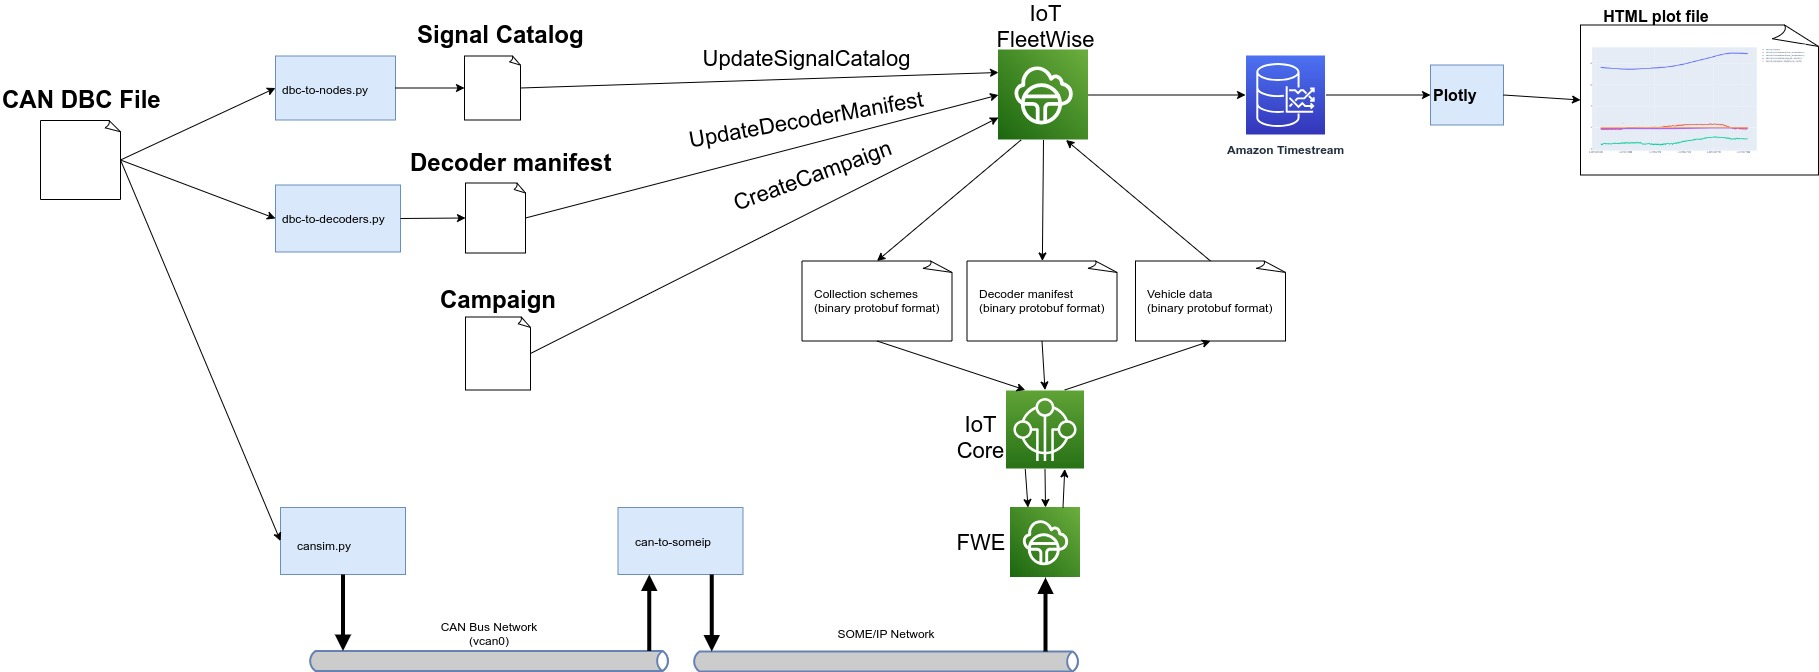
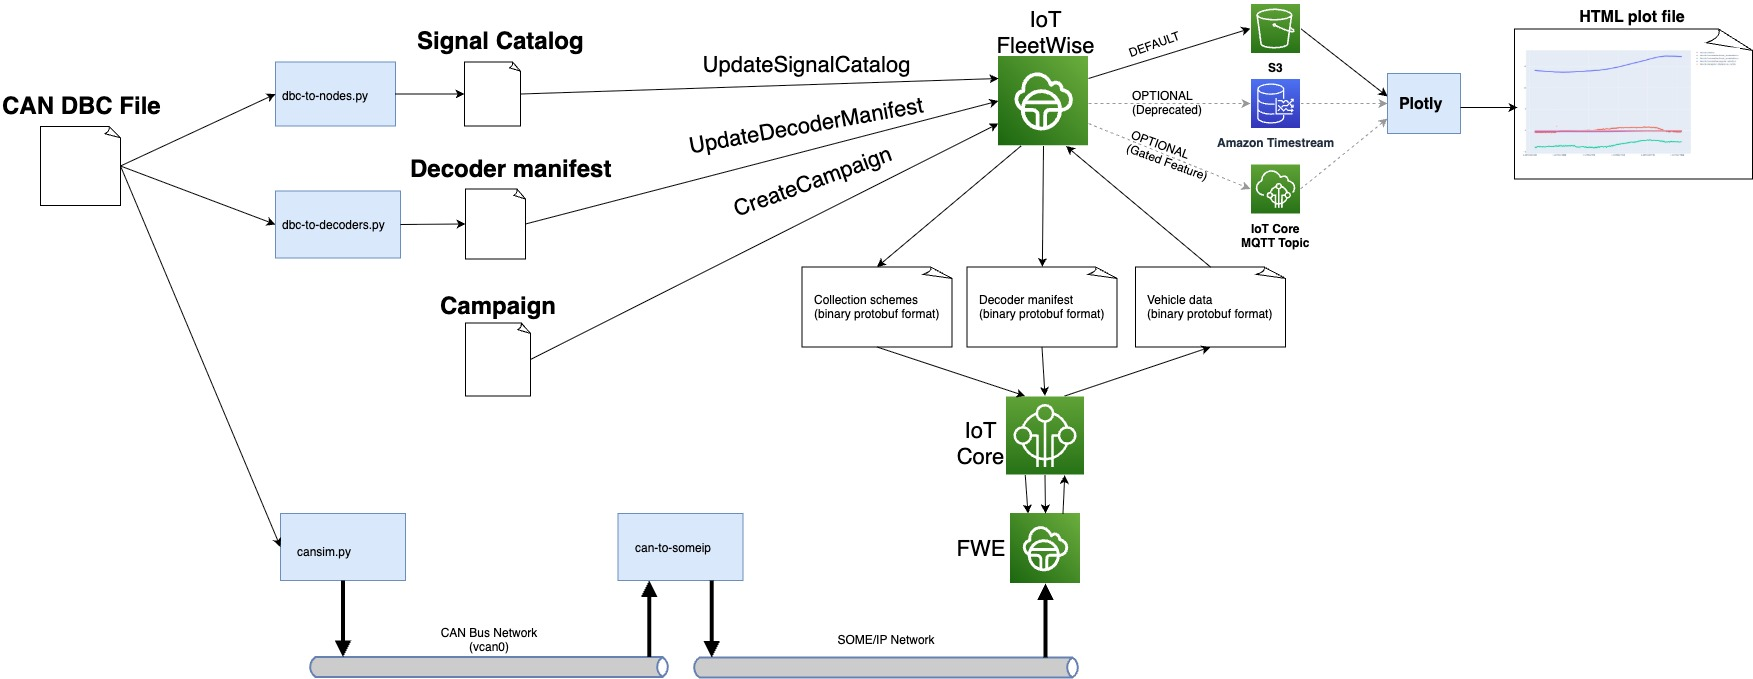
Update default data destination to S3 (#137)

diff --git a/docs/dev-guide/edge-agent-dev-guide.md b/docs/dev-guide/edge-agent-dev-guide.md
@@ -168,9 +168,12 @@ collect data from it.
       --campaign-file campaign-brake-event.json
    ```
 
-   - (Optional) To enable S3 upload, append the option `--data-destination S3`. By default the
-     upload format will be JSON. You can change this to Parquet format for S3 by passing
-     `--s3-format PARQUET`.
+   - The default `--data-destination` is S3, and the default upload format is JSON. You can change
+     this to Parquet format for S3 by passing `--s3-format PARQUET`.
+   - (Optional) To enable Amazon Timestream as destination, add the flag
+     `--data-destination TIMESTREAM`. **Note**: Amazon Timestream for Live Analytics is only
+     available to customers who are already onboarded in that region. See
+     [the availability change documentation](https://docs.aws.amazon.com/timestream/latest/developerguide/AmazonTimestreamForLiveAnalytics-availability-change.html).
    - (Optional) To enable IoT topic as destination, add the flag `--data-destination IOT_TOPIC`. To
      define the custom IoT topic use the flag `--iot-topic <TOPIC_NAME>`. Note: The IoT topic data
      destination is a "gated" feature of AWS IoT FleetWise for which you will need to request
@@ -188,8 +191,8 @@ collect data from it.
    The demo script:
 
    1. Registers your AWS account with AWS IoT FleetWise, if not already registered.
-   1. Creates an Amazon Timestream database and table.
-   1. Creates IAM role and policy required for the service to write data to Amazon Timestream.
+   1. Creates an S3 bucket with a bucket policy that allows AWS IoT FleetWise to write data to the
+      bucket.
    1. Creates a signal catalog based on `can-nodes.json`.
    1. Creates a model manifest that references the signal catalog with all of the CAN signals.
    1. Activates the model manifest.
@@ -203,19 +206,25 @@ collect data from it.
    1. Creates a campaign from `campaign-brake-event.json` that contains a condition-based collection
       scheme to capture the engine torque and the brake pressure when the brake pressure is above
       7000, and targets the campaign at the fleet.
+   1. The data uploaded to S3 would be in JSON format, or Parquet format if the
+      `--s3-format PARQUET` option is passed.
    1. Approves the campaign.
    1. Waits until the campaign status is `HEALTHY`, which means the campaign has been deployed to
       the fleet.
-   1. Waits 30 seconds and then downloads the collected data from Amazon Timestream.
+   1. Wait 20 minutes for the data to propagate to S3 and then download it.
    1. Saves the data to an HTML file.
 
-   If S3 upload is enabled, the demo script will instead:
+   If `TIMESTREAM` upload is enabled (**Note**: Amazon Timestream for Live Analytics is only
+   available to customers who have already been onboarded in that region. See
+   [the availability change documentation](https://docs.aws.amazon.com/timestream/latest/developerguide/AmazonTimestreamForLiveAnalytics-availability-change.html)),
+   the demo script will instead:
 
-   1. Create an S3 bucket with a bucket policy that allows AWS IoT FleetWise to write data to the
-      bucket.
-   1. Creates a campaign from `campaign-brake-event.json` to upload the data to S3 in JSON format,
-      or Parquet format if the `--s3-format PARQUET` option is passed.
-   1. Wait 20 minutes for the data to propagate to S3 and then download it.
+   1. Creates an Amazon Timestream database and table.
+   1. Creates IAM role and policy required for the service to write data to Amazon Timestream.
+   1. Creates a campaign from `campaign-brake-event.json` that contains a condition-based collection
+      scheme to capture the engine torque and the brake pressure when the brake pressure is above
+      7000, and targets the campaign at the fleet.
+   1. Waits 30 seconds and then downloads the collected data from Amazon Timestream.
    1. Save the data to an HTML file.
 
    This script will not delete Amazon Timestream or S3 resources.
@@ -229,8 +238,11 @@ collect data from it.
    simulated brake pressure signal. As you can see that when hard braking events occur (value above
    7000), collection is triggered and the engine torque signal data is collected.
 
-   Alternatively, if your AWS account is enrolled with Amazon QuickSight or Amazon Managed Grafana,
-   you may use them to browse the data from Amazon Timestream directly.
+   Alternatively, if your upload destination was set to `TIMESTREAM` and AWS account is enrolled
+   with Amazon QuickSight or Amazon Managed Grafana, you may use them to browse the data from Amazon
+   Timestream directly. **Note**: Amazon Timestream for Live Analytics is only available to
+   customers who have already been onboarded in that region. See
+   [the availability change documentation](https://docs.aws.amazon.com/timestream/latest/developerguide/AmazonTimestreamForLiveAnalytics-availability-change.html).
 
    ![](./images/collected_data_plot.png)
 
@@ -452,9 +464,12 @@ collect data from it.
       --campaign-file campaign-brake-event.json
    ```
 
-   - (Optional) To enable S3 upload, append the option `--data-destination S3`. By default the
-     upload format will be JSON. You can change this to Parquet format by passing
-     `--s3-format PARQUET`.
+   - The default `--data-destination` is S3, and the default upload format is JSON. You can change
+     this to Parquet format for S3 by passing `--s3-format PARQUET`.
+   - (Optional) To enable Amazon Timestream as destination, add the flag
+     `--data-destination TIMESTREAM`. **Note**: Amazon Timestream for Live Analytics is only
+     available to customers who are already onboarded in that region. See
+     [the availability change documentation](https://docs.aws.amazon.com/timestream/latest/developerguide/AmazonTimestreamForLiveAnalytics-availability-change.html).
    - (Optional) To enable IoT topic as destination, add the flag `--data-destination IOT_TOPIC` To
      define the custom IoT topic use the flag `--iot-topic <TOPIC_NAME>`. Note: The IoT topic data
      destination is a "gated" feature of AWS IoT FleetWise for which you will need to request
@@ -468,8 +483,8 @@ collect data from it.
    The demo script:
 
    1. Registers your AWS account with AWS IoT FleetWise, if not already registered.
-   1. Creates an Amazon Timestream database and table.
-   1. Creates IAM role and policy required for the service to write data to Amazon Timestream.
+   1. Creates an S3 bucket with a bucket policy that allows AWS IoT FleetWise to write data to the
+      bucket.
    1. Creates a signal catalog based on `can-nodes.json`.
    1. Creates a model manifest that references the signal catalog with all of the CAN signals.
    1. Activates the model manifest.
@@ -483,22 +498,27 @@ collect data from it.
    1. Creates a campaign from `campaign-brake-event.json` that contains a condition-based collection
       scheme to capture the engine torque and the brake pressure when the brake pressure is above
       7000, and targets the campaign at the fleet.
+   1. The data uploaded to S3 would be in JSON format, or Parquet format if the
+      `--s3-format PARQUET` option is passed.
    1. Approves the campaign.
    1. Waits until the campaign status is `HEALTHY`, which means the campaign has been deployed to
       the fleet.
-   1. Waits 30 seconds and then downloads the collected data from Amazon Timestream.
+   1. Wait 20 minutes for the data to propagate to S3 and then download it.
    1. Saves the data to an HTML file.
 
-   If S3 upload is enabled, the demo script will additionally:
+   If `TIMESTREAM` upload is enabled, the demo script will instead:
 
-   1. Create an S3 bucket with a bucket policy that allows AWS IoT FleetWise to write data to the
-      bucket.
-   1. Creates an additional campaign from `campaign-brake-event.json` to upload the data to S3 in
-      JSON format, or Parquet format if the `--s3-format PARQUET` option is passed.
-   1. Wait 20 minutes for the data to propagate to S3 and then download it.
-   1. Save the data to an HTML file.
+   **Note**: Amazon Timestream for Live Analytics is only available to customers who have already
+   been onboarded in that region. See
+   [the availability change documentation](https://docs.aws.amazon.com/timestream/latest/developerguide/AmazonTimestreamForLiveAnalytics-availability-change.html).
 
-   This script will not delete Amazon Timestream or S3 resources.
+   1. Creates an Amazon Timestream database and table.
+   1. Creates IAM role and policy required for the service to write data to Amazon Timestream.
+   1. Creates a campaign from `campaign-brake-event.json` that contains a condition-based collection
+      scheme to capture the engine torque and the brake pressure when the brake pressure is above
+      7000, and targets the campaign at the fleet.
+   1. Waits 30 seconds and then downloads the collected data from Amazon Timestream.
+   1. Save the data to an HTML file. This script will not delete Amazon Timestream or S3 resources.
 
 1. When the script completes, a path to an HTML file is given. _On your local machine_, use `scp` to
    download it, then open it in your web browser:
@@ -511,8 +531,11 @@ collect data from it.
    simulated brake pressure signal. As you can see that when hard braking events occur (value above
    7000), collection is triggered and the engine torque signal data is collected.
 
-   Alternatively, if your AWS account is enrolled with Amazon QuickSight or Amazon Managed Grafana,
-   you may use them to browse the data from Amazon Timestream directly.
+   Alternatively, if your upload destination was set to `TIMESTREAM` and AWS account is enrolled
+   with Amazon QuickSight or Amazon Managed Grafana, you may use them to browse the data from Amazon
+   Timestream directly. **Note**: Amazon Timestream for Live Analytics is only available to
+   customers who have already been onboarded in that region. See
+   [the availability change documentation](https://docs.aws.amazon.com/timestream/latest/developerguide/AmazonTimestreamForLiveAnalytics-availability-change.html).
 
    ![](./images/collected_data_plot.png)
 

diff --git a/docs/dev-guide/can-over-someip-demo.md b/docs/dev-guide/can-over-someip-demo.md
@@ -7,8 +7,8 @@ available to nodes on the Ethernet network.
 
 This demo generates CAN data on a virtual CAN bus, and bridges this data onto SOME/IP. The Reference
 Implementation for AWS IoT FleetWise (FWE) is then provisioned and run to collect the CAN data from
-SOME/IP and upload it to the cloud. The data is then downloaded from Amazon Timestream and plotted
-in an HTML graph format.
+SOME/IP and upload it to the cloud. The data is then downloaded from the specified data destination
+and plotted in an HTML graph format.
 
 The following diagram illustrates the dataflow and artifacts consumed and produced by this demo:
 
@@ -227,8 +227,8 @@ collect data from it.
    The demo script:
 
    1. Registers your AWS account with AWS IoT FleetWise, if not already registered.
-   1. Creates an Amazon Timestream database and table.
-   1. Creates IAM role and policy required for the service to write data to Amazon Timestream.
+   1. Creates an S3 bucket with a bucket policy that allows AWS IoT FleetWise to write data to the
+      bucket.
    1. Creates a signal catalog based on `can-nodes.json`.
    1. Creates a model manifest that references the signal catalog with all of the CAN signals.
    1. Activates the model manifest.
@@ -242,11 +242,28 @@ collect data from it.
    1. Creates a campaign from `campaign-brake-event.json` that contains a condition-based collection
       scheme to capture the engine torque and the brake pressure when the brake pressure is above
       7000, and targets the campaign at the fleet.
+   1. The data uploaded to S3 would be in JSON format, or Parquet format if the
+      `--s3-format PARQUET` option is passed.
    1. Approves the campaign.
    1. Waits until the campaign status is `HEALTHY`, which means the campaign has been deployed to
       the fleet.
-   1. Waits 30 seconds and then downloads the collected data from Amazon Timestream.
+   1. Wait 20 minutes for the data to propagate to S3 and then download it.
    1. Saves the data to an HTML file.
+
+   If `TIMESTREAM` upload is enabled (**Note**: Amazon Timestream for Live Analytics is only
+   available to customers who have already been onboarded in that region. See
+   [the availability change documentation](https://docs.aws.amazon.com/timestream/latest/developerguide/AmazonTimestreamForLiveAnalytics-availability-change.html)),
+   the demo script will instead:
+
+   1. Creates an Amazon Timestream database and table.
+   1. Creates IAM role and policy required for the service to write data to Amazon Timestream.
+   1. Creates a campaign from `campaign-brake-event.json` that contains a condition-based collection
+      scheme to capture the engine torque and the brake pressure when the brake pressure is above
+      7000, and targets the campaign at the fleet.
+   1. Waits 30 seconds and then downloads the collected data from Amazon Timestream.
+   1. Save the data to an HTML file.
+
+   This script will not delete Amazon Timestream or S3 resources.
 
 1. When the script completes, a path to an HTML file is given. _On your local machine_, use `scp` to
    download it, then open it in your web browser:
@@ -259,15 +276,18 @@ collect data from it.
    simulated brake pressure signal. As you can see that when hard braking events occur (value above
    7000), collection is triggered and the engine torque signal data is collected.
 
-   Alternatively, if your AWS account is enrolled with Amazon QuickSight or Amazon Managed Grafana,
-   you may use them to browse the data from Amazon Timestream directly.
+   Alternatively, if your upload destination was set to `TIMESTREAM` and AWS account is enrolled
+   with Amazon QuickSight or Amazon Managed Grafana, you may use them to browse the data from Amazon
+   Timestream directly. **Note**: Amazon Timestream for Live Analytics is only available to
+   customers who have already been onboarded in that region. See
+   [the availability change documentation](https://docs.aws.amazon.com/timestream/latest/developerguide/AmazonTimestreamForLiveAnalytics-availability-change.html).
 
    ![](./images/collected_data_plot.png)
 
 ## Clean up
 
 1. Run the following _on the development machine_ to clean up resources created by the
-   `provision.sh` and `demo.sh` scripts. **Note:** The Amazon Timestream resources are not deleted.
+   `provision.sh` and `demo.sh` scripts. **Note:** The S3 resources are not deleted.
 
    ```bash
    cd ~/aws-iot-fleetwise-edge/tools/cloud \

diff --git a/docs/dev-guide/store-and-forward-dev-guide.md b/docs/dev-guide/store-and-forward-dev-guide.md
@@ -116,16 +116,19 @@ previous section.
    The demo script will save a set of varables about the run to a demo.env file, which can be used
    by other scripts such as request-forward.sh or cleanup.sh.
 
-   When the script completes, you can view the data forwarded by the second and third campaigns in
-   Timestream, as well as the demo output file(s). A path to an HTML file is given. _On your local
-   machine_, use `scp` to download it, then open it in your web browser:
+   When the script completes, you can view the data forwarded by the second and third campaigns to
+   S3, as well as the demo output file(s). A path to an HTML file is given. _On your local machine_,
+   use `scp` to download it, then open it in your web browser:
 
    ```bash
    scp -i <PATH_TO_PEM> ubuntu@<EC2_IP_ADDRESS>:<PATH_TO_HTML_FILE> .
    ```
 
-   Alternatively, if your AWS account is enrolled with Amazon QuickSight or Amazon Managed Grafana,
-   you may use them to browse the data from Amazon Timestream directly.
+   Alternatively, if your upload destination was set to `TIMESTREAM` and AWS account is enrolled
+   with Amazon QuickSight or Amazon Managed Grafana, you may use them to browse the data from Amazon
+   Timestream directly. **Note**: Amazon Timestream for Live Analytics is only available to
+   customers who have already been onboarded in that region. See
+   [the availability change documentation](https://docs.aws.amazon.com/timestream/latest/developerguide/AmazonTimestreamForLiveAnalytics-availability-change.html).
 
    As you explore the forwarded data, you can see the brake data from campaign 2 as well as the
    network type signal from campaign 3.
@@ -163,16 +166,18 @@ end time will be passed through to the IoT Job document by the script. The scrip
 argument must be an ISO 8601 UTC formatted time string. e.g. `--end-time 2024-05-25T01:21:23Z`
 
 When the request-forward.sh script completes, you can view the data forwarded by the first campaign
-which was requested through IoT Jobs in Timestream, as well as the demo output file(s). A path to an
-HTML file is given. _On your local machine_, use `scp` to download it, then open it in your web
-browser:
+which was requested through IoT Jobs in S3, as well as the demo output file(s). A path to an HTML
+file is given. _On your local machine_, use `scp` to download it, then open it in your web browser:
 
 ```bash
 scp -i <PATH_TO_PEM> ubuntu@<EC2_IP_ADDRESS>:<PATH_TO_HTML_FILE> .
 ```
 
-Alternatively, if your AWS account is enrolled with Amazon QuickSight or Amazon Managed Grafana, you
-may use them to browse the data from Amazon Timestream directly.
+Alternatively, if your upload destination was set to `TIMESTREAM` and AWS account is enrolled with
+Amazon QuickSight or Amazon Managed Grafana, you may use them to browse the data from Amazon
+Timestream directly. **Note**: Amazon Timestream for Live Analytics is only available to customers
+who have already been onboarded in that region. See
+[the availability change documentation](https://docs.aws.amazon.com/timestream/latest/developerguide/AmazonTimestreamForLiveAnalytics-availability-change.html).
 
 As you explore the forwarded data, you can now see the engine data from campaign 1, in addition to
 the data from the other campaigns.

diff --git a/docs/iwave-g26-tutorial/iwave-g26-tutorial.md b/docs/iwave-g26-tutorial/iwave-g26-tutorial.md
@@ -526,7 +526,8 @@ mkdir -p ~/aws-iot-fleetwise-deploy \
    The demo script:
 
    1. Registers your AWS account with AWS IoT FleetWise, if not already registered.
-   1. Creates an Amazon Timestream database and table.
+   1. Creates an S3 bucket with a bucket policy that allows AWS IoT FleetWise to write data to the
+      bucket.
    1. Creates IAM role and policy required for the service to write data to Amazon Timestream.
    1. Creates a signal catalog based on `obd-nodes.json` and `custom-nodes-location.json`.
    1. Creates a model manifest that references the signal catalog with all of the OBD and location
@@ -542,13 +543,15 @@ mkdir -p ~/aws-iot-fleetwise-deploy \
    1. Associates the vehicle with the fleet.
    1. Creates a campaign from `campaign-obd-heartbeat.json` that contains a time-based collection
       scheme that collects OBD and location data and targets the campaign at the fleet.
+   1. The data uploaded to S3 would be in JSON format, or Parquet format if the
+      `--s3-format PARQUET` option is passed.
    1. Approves the campaign.
    1. Waits until the campaign status is `HEALTHY`, which means the campaign has been deployed to
       the fleet.
-   1. Waits 30 seconds and then downloads the collected data from Amazon Timestream.
+   1. Wait 20 minutes for the data to propagate to S3 and then download it.
    1. Saves the data to an HTML file.
 
-   This script will not delete Amazon Timestream resources.
+   This script will not delete S3 resources.
 
 1. When the script completes, a path to an HTML file is given. _On your local machine_, use `scp` to
    download it, then open it in your web browser:
@@ -559,8 +562,11 @@ mkdir -p ~/aws-iot-fleetwise-deploy \
 
 1. To explore the collected data, you can click and drag to zoom in.
 
-   Alternatively, if your AWS account is enrolled with Amazon QuickSight or Amazon Managed Grafana,
-   you may use them to browse the data from Amazon Timestream directly.
+   Alternatively, if your upload destination was set to `TIMESTREAM` and AWS account is enrolled
+   with Amazon QuickSight or Amazon Managed Grafana, you may use them to browse the data from Amazon
+   Timestream directly. **Note**: Amazon Timestream for Live Analytics is only available to
+   customers who have already been onboarded in that region. See
+   [the availability change documentation](https://docs.aws.amazon.com/timestream/latest/developerguide/AmazonTimestreamForLiveAnalytics-availability-change.html).
 
 **Note:**
 
@@ -592,7 +598,7 @@ mkdir -p ~/aws-iot-fleetwise-deploy \
 ## Step 8: Clean up
 
 1. Run the following _on the development machine_ to clean up resources created by the
-   `provision.sh` and `demo.sh` scripts. **Note:** The Amazon Timestream resources are not deleted.
+   `provision.sh` and `demo.sh` scripts. **Note:** The S3 resources are not deleted.
 
    ```bash
    cd ~/aws-iot-fleetwise-edge/tools/cloud \

diff --git a/docs/rpi-tutorial/raspberry-pi-tutorial.md b/docs/rpi-tutorial/raspberry-pi-tutorial.md
@@ -331,7 +331,8 @@ mkdir -p ~/aws-iot-fleetwise-deploy \
    The demo script:
 
    1. Registers your AWS account with AWS IoT FleetWise, if not already registered.
-   1. Creates an Amazon Timestream database and table.
+   1. Creates an S3 bucket with a bucket policy that allows AWS IoT FleetWise to write data to the
+      bucket.
    1. Creates IAM role and policy required for the service to write data to Amazon Timestream.
    1. Creates a signal catalog based on `obd-nodes.json`.
    1. Creates a model manifest that references the signal catalog with all of the OBD signals.
@@ -345,13 +346,15 @@ mkdir -p ~/aws-iot-fleetwise-deploy \
    1. Associates the vehicle with the fleet.
    1. Creates a campaign from `campaign-obd-heartbeat.json` that contains a time-based collection
       scheme that collects OBD data and targets the campaign at the fleet.
+   1. The data uploaded to S3 would be in JSON format, or Parquet format if the
+      `--s3-format PARQUET` option is passed.
    1. Approves the campaign.
    1. Waits until the campaign status is `HEALTHY`, which means the campaign has been deployed to
       the fleet.
-   1. Waits 30 seconds and then downloads the collected data from Amazon Timestream.
+   1. Wait 20 minutes for the data to propagate to S3 and then download it.
    1. Saves the data to an HTML file.
 
-   This script will not delete Amazon Timestream resources.
+   This script will not delete S3 resources.
 
 1. When the script completes, a path to an HTML file is given. _On your local machine_, use `scp` to
    download it, then open it in your web browser:
@@ -362,13 +365,16 @@ mkdir -p ~/aws-iot-fleetwise-deploy \
 
 1. To explore the collected data, you can click and drag to zoom in.
 
-   Alternatively, if your AWS account is enrolled with Amazon QuickSight or Amazon Managed Grafana,
-   you may use them to browse the data from Amazon Timestream directly.
+   Alternatively, if your upload destination was set to `TIMESTREAM` and AWS account is enrolled
+   with Amazon QuickSight or Amazon Managed Grafana, you may use them to browse the data from Amazon
+   Timestream directly. **Note**: Amazon Timestream for Live Analytics is only available to
+   customers who have already been onboarded in that region. See
+   [the availability change documentation](https://docs.aws.amazon.com/timestream/latest/developerguide/AmazonTimestreamForLiveAnalytics-availability-change.html).
 
 ## Step 7: Clean up
 
 1. Run the following _on the development machine_ to clean up resources created by the
-   `provision.sh` and `demo.sh` scripts. **Note:** The Amazon Timestream resources are not deleted.
+   `provision.sh` and `demo.sh` scripts. **Note:** The S3 resources are not deleted.
 
    ```bash
    cd ~/aws-iot-fleetwise-edge/tools/cloud \

diff --git a/docs/dev-guide/edge-agent-dev-guide-nxp-s32g.md b/docs/dev-guide/edge-agent-dev-guide-nxp-s32g.md
@@ -175,7 +175,7 @@ mkdir -p ~/aws-iot-fleetwise-deploy \
 ## Clean up
 
 1. Run the following _on the development machine_ to clean up resources created by the
-   `provision.sh` and `demo.sh` scripts. **Note:** The Amazon Timestream resources are not deleted.
+   `provision.sh` and `demo.sh` scripts. **Note:** The S3 resources are not deleted.
 
    ```bash
    cd ~/aws-iot-fleetwise-edge/tools/cloud \

diff --git a/docs/dev-guide/edge-agent-dev-guide-renesas-rcar-s4.md b/docs/dev-guide/edge-agent-dev-guide-renesas-rcar-s4.md
@@ -191,7 +191,7 @@ mkdir -p ~/aws-iot-fleetwise-deploy \
 ## Clean up
 
 1. Run the following _on the development machine_ to clean up resources created by the
-   `provision.sh` and `demo.sh` scripts. **Note:** The Amazon Timestream resources are not deleted.
+   `provision.sh` and `demo.sh` scripts. **Note:** The S3 resources are not deleted.
 
    ```bash
    cd ~/aws-iot-fleetwise-edge/tools/cloud \
